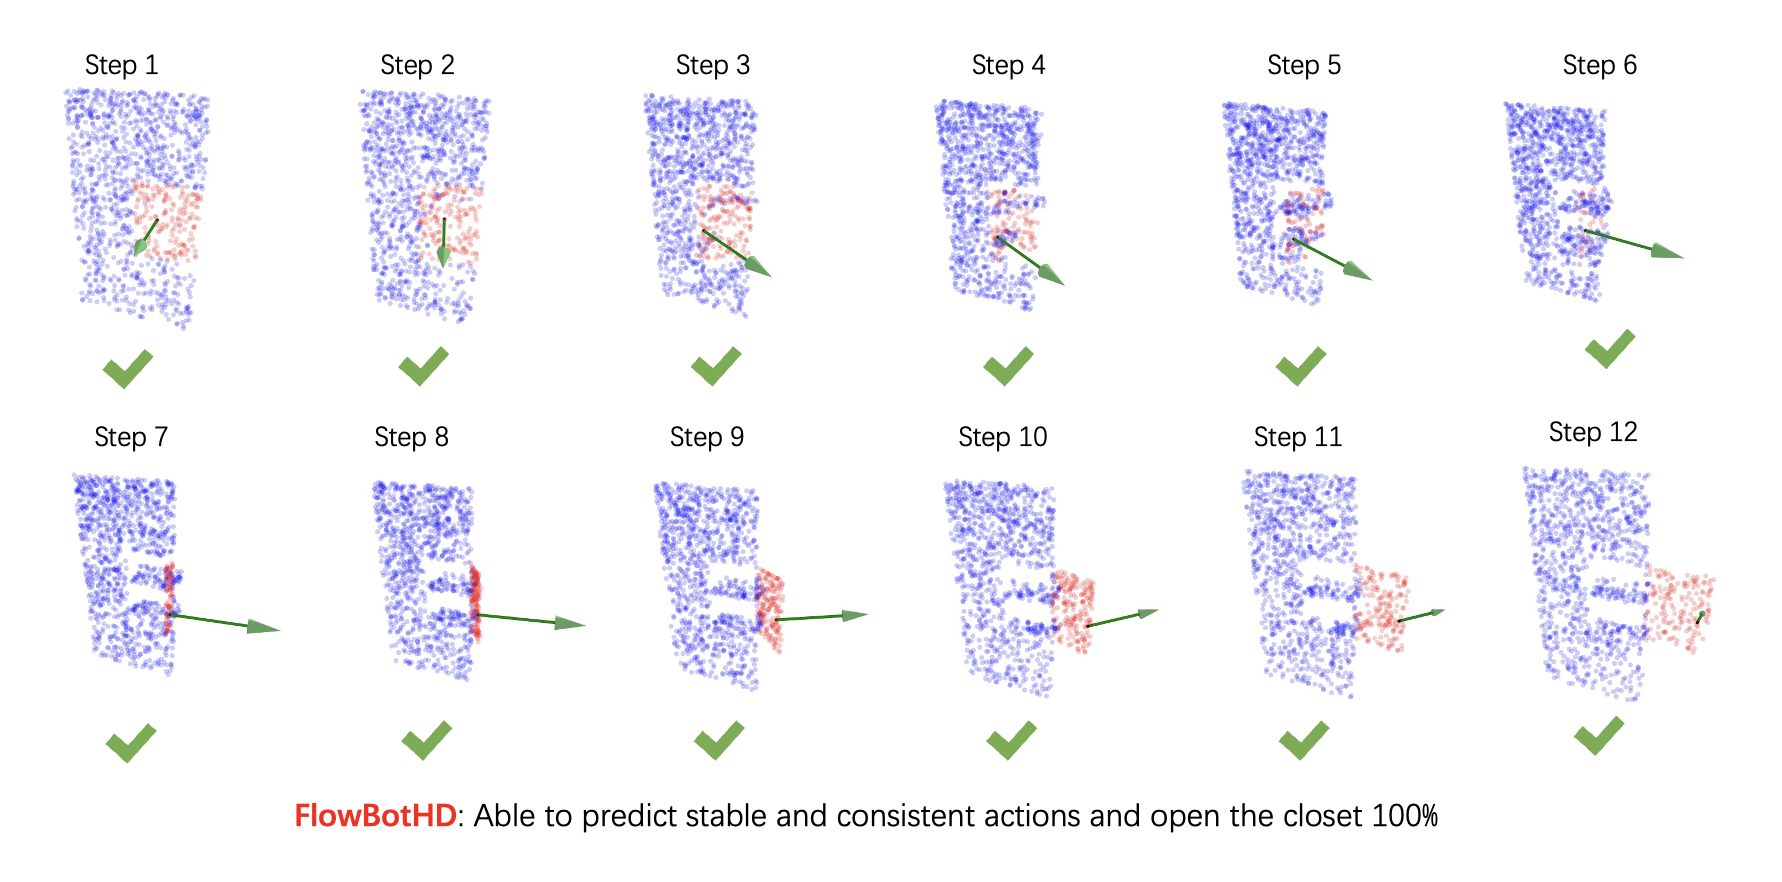
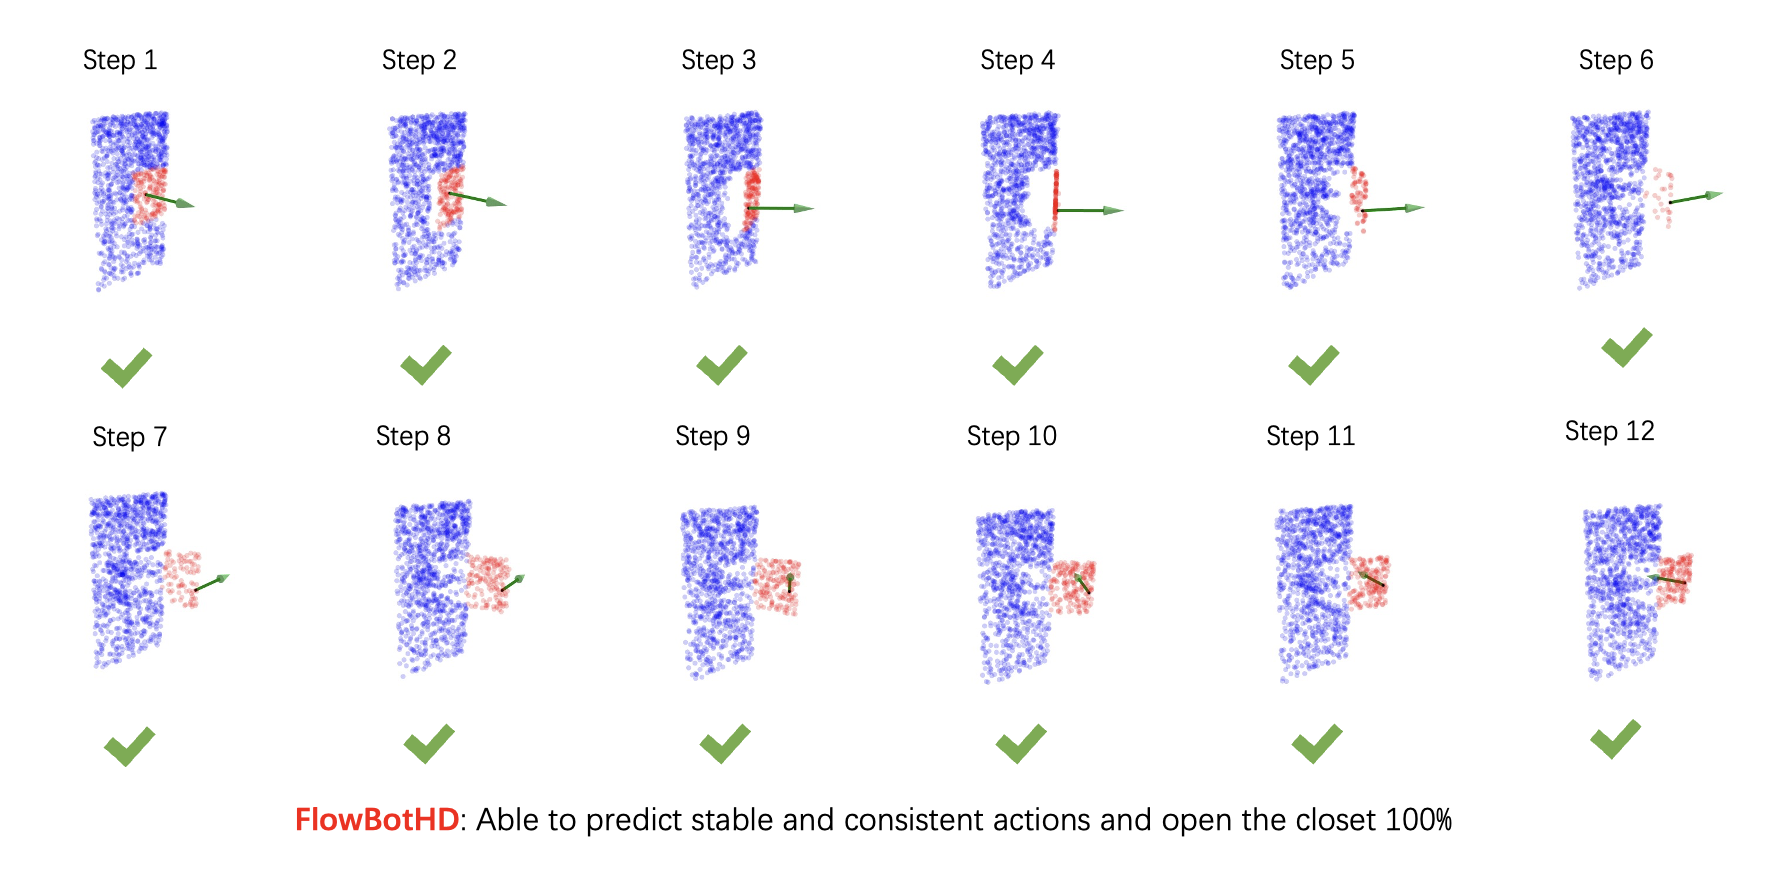
Add files via upload

diff --git a/index.html b/index.html
@@ -231,16 +231,20 @@
       </div>
     </div>
     <p>
-      We provide simulation visualizations for the most ambiguous category (door) as multi-modality showcases. In these visuals, we can see our model and policy’s
-      pattern of opening an object: make trials at the beginning, once the door is opened a bit, make
-      consistent predictions based on past history and consistency check.
+      We provide simulation visualizations for special cases (multi-modal, occlusion) and also general examples. In these visuals, we can see our model's stable performance on various objects.
     </p>
 
     <!--/ Multi-modality Examples. -->
     <div>
     <div class="columns is-centered has-text-centered">
-      <h2 class="title is-5" style="margin-top: 20px; margin-bottom: 20px;">I. Multi-modality Example</h2>
+      <h2 class="title is-5" style="margin-top: 30px; margin-bottom: 5px;">I. Multi-modality Example</h2>
     </div>
+
+    <p style="margin-bottom: 20px;">
+      We can see from the visuals that FlowBotHD, combined with our proposed policy, 
+      is able to try different possible moving direction and grasp point at fully-closed state, 
+      thus able to open objects despite ambituity at early stage.
+    </p>
     <!-- <div class="video-container">
     <video id="matting-video" controls playsinline height="100%">
       <source src="./static/videos/8867_link_1.mp4"
@@ -392,8 +396,13 @@
     <!-- Occlusion Examples -->
     <div>
     <div class="columns is-centered has-text-centered">
-      <h2 class="title is-5" style="margin-top: 40px; margin-bottom: 20px;">II. Occlusion Examples</h2>
+      <h2 class="title is-5" style="margin-top: 40px; margin-bottom: 5px;">II. Occlusion Examples</h2>
     </div>
+
+    <p style="margin-bottom: 20px;">
+      With history integrated, 
+      FlowBotHD is able to make consistent and stable predictions even at severely occluded angles.
+    </p>
 
     <!-- Case 1-->
     <div class="columns is-centered has-text-centered">
